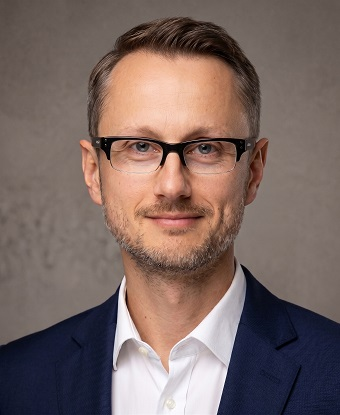
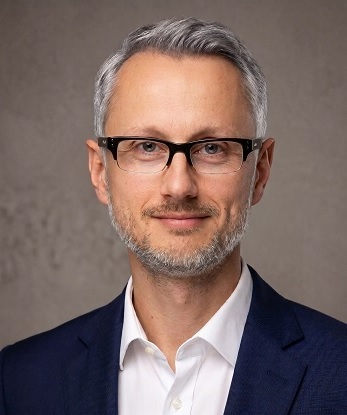
Initial commit

diff --git a/src/HomePage.tsx b/src/HomePage.tsx
@@ -1,5 +1,6 @@
 import { useState } from 'react'
-import { ArrowRight, Quote, UserRound } from 'lucide-react'
+import { ArrowRight, UserRound } from 'lucide-react'
+import BookingInline from './components/BookingInline'
 import Footer from './components/Footer'
 import Header from './components/Header'
 
@@ -34,22 +35,21 @@ function Hero() {
       <div className="mx-auto max-w-7xl px-4 py-14 sm:px-6 sm:py-16 lg:px-8 lg:py-20">
         <div className="grid items-center gap-8 lg:grid-cols-[1.2fr_0.8fr] lg:gap-12">
           <div className="order-2 lg:order-1">
-            <div className="rounded-3xl border border-stone-200 bg-white p-6 shadow-sm sm:p-8">
-              <div className="mb-5 inline-flex items-center gap-2 rounded-full bg-teal-50 px-3 py-1 text-xs font-semibold uppercase tracking-wider text-teal-700">
-                <Quote className="h-3.5 w-3.5" aria-hidden="true" />
-                Refleksja na dzis
-              </div>
+            <div className="space-y-6 rounded-3xl border border-stone-200 bg-white p-6 shadow-sm sm:p-8">
               <p className="font-serif text-3xl leading-tight text-teal-700 sm:text-4xl lg:text-5xl">
                 ZYCIE DAJE KAZDEMU TYLE, ILE SAM MA ODWAGE SOBIE Z NIEGO WZIAC
               </p>
-              <p className="mt-5 text-sm uppercase tracking-[0.18em] text-stone-500">
+              <p className="text-sm uppercase tracking-[0.18em] text-stone-500">
                 - Jacek Walkiewicz
               </p>
 
-              <div className="mt-6 flex flex-wrap gap-2">
-                <span className="rounded-full border border-teal-200 bg-teal-50 px-3 py-1 text-xs font-medium text-teal-700">
-                  Terapia osob doroslych
-                </span>
+              <p className="max-w-xl leading-relaxed text-stone-600">
+                Profesjonalne wsparcie psychologiczne i psychoterapia osob
+                doroslych w spokojnej, bezpiecznej atmosferze.
+              </p>
+
+              <div className="flex flex-wrap items-center gap-3">
+                <BookingInline compact />
                 <span className="rounded-full border border-orange-200 bg-orange-50 px-3 py-1 text-xs font-medium text-orange-600">
                   Sesja 50 minut
                 </span>

diff --git a/src/PricingPage.tsx b/src/PricingPage.tsx
@@ -1,4 +1,4 @@
-import { CalendarCheck2 } from 'lucide-react'
+import BookingInline from './components/BookingInline'
 import Header from './components/Header'
 import Footer from './components/Footer'
 
@@ -9,9 +9,6 @@ interface PricingItem {
 }
 
 interface PricingRowProps extends PricingItem {}
-
-const BOOKING_URL =
-  'https://www.znanylekarz.pl/michal-kasprzyca/psycholog-psychoterapeuta/wroclaw?utm_source=widget-doctor-307228&utm_medium=small&utm_campaign=&utm_content=www-gabinet-psychoterapeutyczny-org.filesusr.com#highlight-calendar'
 
 const pricingItems: PricingItem[] = [
   {
@@ -54,6 +51,9 @@ export default function PricingPage() {
   return (
     <div className="min-h-screen bg-white font-sans text-stone-700">
       <Header />
+      <div className="mx-auto flex max-w-7xl justify-center px-4 pt-6 sm:px-6 lg:px-8">
+        <BookingInline compact />
+      </div>
 
       <main className="relative overflow-hidden bg-stone-50 py-12 sm:py-16">
         <div className="mx-auto max-w-7xl px-4 sm:px-6 lg:px-8">
@@ -129,18 +129,6 @@ export default function PricingPage() {
             </div>
           </section>
 
-          <section className="mt-10 flex justify-center sm:mt-12">
-            <a
-              href={BOOKING_URL}
-              target="_blank"
-              rel="noreferrer"
-              className="inline-flex items-center gap-2 rounded-lg border border-green-700 bg-green-600 px-6 py-3 text-sm font-semibold text-white shadow-sm transition hover:bg-green-700 focus-visible:outline focus-visible:outline-2 focus-visible:outline-offset-2 focus-visible:outline-green-700 sm:px-7 sm:text-base"
-              aria-label="Umow wizyte online przez ZnanyLekarz"
-            >
-              <CalendarCheck2 className="h-5 w-5" aria-hidden="true" />
-              Umow wizyte online
-            </a>
-          </section>
         </div>
       </main>
 

diff --git a/src/components/BookingInline.tsx b/src/components/BookingInline.tsx
@@ -1,0 +1,31 @@
+import { CalendarCheck2 } from 'lucide-react'
+
+const BOOKING_URL =
+  'https://www.znanylekarz.pl/michal-kasprzyca/psycholog-psychoterapeuta/wroclaw?utm_source=widget-doctor-307228&utm_medium=small&utm_campaign=&utm_content=www-gabinet-psychoterapeutyczny-org.filesusr.com#highlight-calendar'
+
+interface BookingInlineProps {
+  className?: string
+  compact?: boolean
+}
+
+export default function BookingInline({
+  className = '',
+  compact = false,
+}: BookingInlineProps) {
+  return (
+    <div className={className}>
+      <a
+        href={BOOKING_URL}
+        target="_blank"
+        rel="noreferrer"
+        className={`inline-flex items-center gap-2 rounded-lg border border-green-700 bg-green-600 font-semibold text-white shadow-sm transition hover:bg-green-700 focus-visible:outline focus-visible:outline-2 focus-visible:outline-offset-2 focus-visible:outline-green-700 ${
+          compact ? 'px-4 py-2 text-sm' : 'px-6 py-3 text-base'
+        }`}
+        aria-label="Umow wizyte przez ZnanyLekarz (otworzy sie w nowej karcie)"
+      >
+        <CalendarCheck2 className="h-4 w-4" aria-hidden="true" />
+        Umow wizyte
+      </a>
+    </div>
+  )
+}

diff --git a/src/ServicesPage.tsx b/src/ServicesPage.tsx
@@ -1,5 +1,6 @@
 import type { LucideIcon } from 'lucide-react'
 import { ArrowRight, Bird, Feather } from 'lucide-react'
+import BookingInline from './components/BookingInline'
 import Header from './components/Header'
 import Footer from './components/Footer'
 
@@ -54,6 +55,9 @@ export default function ServicesPage() {
   return (
     <div className="min-h-screen bg-white font-sans text-stone-700">
       <Header />
+      <div className="mx-auto flex max-w-7xl justify-center px-4 pt-6 sm:px-6 lg:px-8">
+        <BookingInline compact />
+      </div>
 
       <main className="bg-stone-50 py-14 sm:py-20">
         <section className="mx-auto max-w-7xl px-4 sm:px-6 lg:px-8">

diff --git a/src/HealthZonePage.tsx b/src/HealthZonePage.tsx
@@ -1,5 +1,6 @@
 import type { LucideIcon } from 'lucide-react'
 import { Activity, Coffee, ExternalLink, Leaf } from 'lucide-react'
+import BookingInline from './components/BookingInline'
 import Header from './components/Header'
 import Footer from './components/Footer'
 
@@ -46,6 +47,9 @@ export default function HealthZonePage() {
   return (
     <div className="min-h-screen bg-white font-sans text-stone-700">
       <Header />
+      <div className="mx-auto flex max-w-7xl justify-center px-4 pt-6 sm:px-6 lg:px-8">
+        <BookingInline compact />
+      </div>
 
       <main className="bg-white">
         <section className="bg-stone-50 py-14 sm:py-20">

diff --git a/src/ContactPage.tsx b/src/ContactPage.tsx
@@ -1,4 +1,5 @@
 import { Mail, MapPin, Phone } from 'lucide-react'
+import BookingInline from './components/BookingInline'
 import Header from './components/Header'
 import Footer from './components/Footer'
 const GOOGLE_MAPS_URL = 'https://maps.app.goo.gl/sCujAYXbccwRYajg9'
@@ -9,6 +10,9 @@ export default function ContactPage() {
   return (
     <div className="min-h-screen bg-white font-sans text-stone-700">
       <Header />
+      <div className="mx-auto flex max-w-7xl justify-center px-4 pt-6 sm:px-6 lg:px-8">
+        <BookingInline compact />
+      </div>
 
       <main>
         <section className="bg-white py-14 sm:py-16">

diff --git a/src/AboutPage.tsx b/src/AboutPage.tsx
@@ -1,4 +1,5 @@
 import { UserRound } from 'lucide-react'
+import BookingInline from './components/BookingInline'
 import Header from './components/Header'
 import Footer from './components/Footer'
 
@@ -106,6 +107,9 @@ export default function AboutPage() {
   return (
     <div className="min-h-screen bg-white font-sans text-stone-700">
       <Header />
+      <div className="mx-auto flex max-w-7xl justify-center px-4 pt-6 sm:px-6 lg:px-8">
+        <BookingInline compact />
+      </div>
 
       <main className="bg-stone-50 py-12 sm:py-16">
         <div className="mx-auto max-w-7xl px-4 sm:px-6 lg:px-8">
